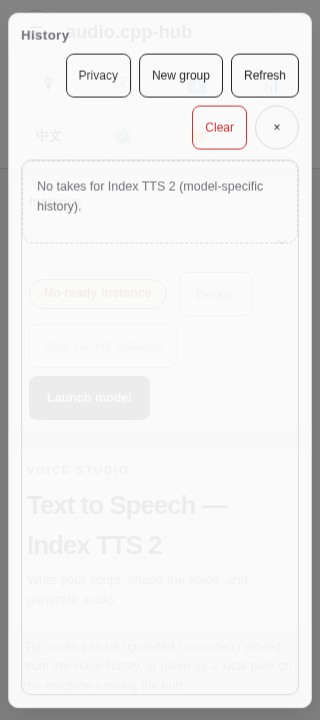
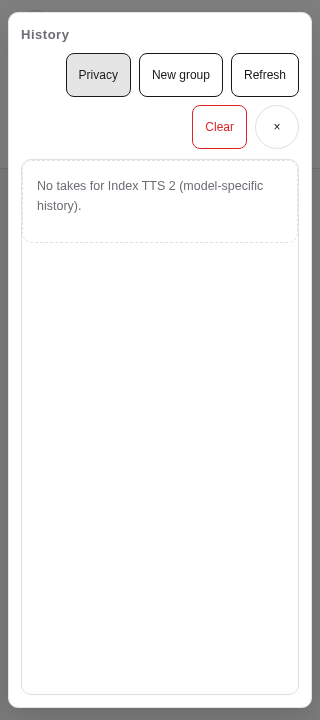
docs(ui): replace transitional History screenshot with settled capture (#143)

diff --git a/docs/media/issue-139/README.md b/docs/media/issue-139/README.md
@@ -2,7 +2,8 @@
 
 These are **actual headless Chromium captures**, not generated design mockups.
 The "after" captures come from a **local isolated static-server source preview
-with a mocked backend**; they do not prove a production rollout.
+with a mocked backend**; they do not prove a production rollout. The History
+dialog screenshot was taken after its opening opacity transition settled.
 
 | Screenshot | Provenance | Viewport |
 | --- | --- | --- |
